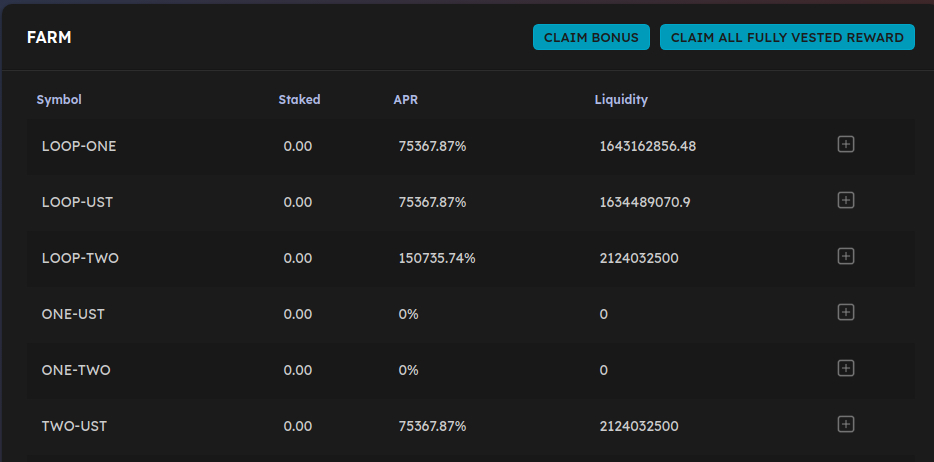
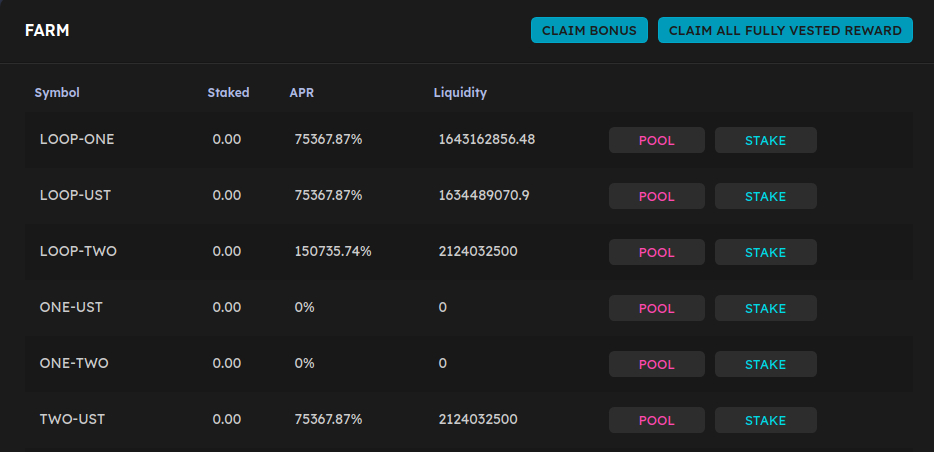
GitBook: [master] 15 pages and 5 assets modified

diff --git a/how-to/farming.md b/how-to/farming.md
@@ -18,7 +18,7 @@ It may sound intimidating, but it's not too complicated. Let's go through step b
 
 Before you proceed, you'll want to choose a Farm that's right for you. [Visit the Farms page](https://tequila-graph.loop.markets/farm#stake) and you’ll see a list of available Farms.
 
-![available farms on the LOOPSwap ](../.gitbook/assets/farms.jpg)
+![Available Farms](../.gitbook/assets/farms.jpg)
 
 When you find a Farm that you'd like to use, note down the trading pair, e.g. LOOP-UST in case you need it later.
 
@@ -26,11 +26,9 @@ When you find a Farm that you'd like to use, note down the trading pair, e.g. LO
 
 Now that you've found a Farm to stake in, you will need to add liquidity to get your LP Tokens.
 
-1. Click on [POOL](https://tequila-graph.loop.markets/pool#provide) on the left Menu list to swap the Token Pair to get **LP** tokens. 
+1. Click on [POOL](https://tequila-graph.loop.markets/pool#provide) to swap the Token Pair to get **LP** tokens. 
 
-   2.
-
-![click on Provide to get the LP Tokens](../.gitbook/assets/screenshot-from-2021-08-31-18-32-15.jpg)
+![Farm to provide liquidity](../.gitbook/assets/pool.jpg)
 
 ## Putting your LP Tokens into a farm <a id="putting-your-lp-tokens-into-a-farm"></a>
 
@@ -38,14 +36,13 @@ Now that you have your LP Tokens, you’re ready to start staking them in a Farm
 
 ### Putting your LP Tokens into the Farm <a id="putting-your-lp-tokens-into-the-farm"></a>
 
-1. Go back to the [Farms page](https://tequila-graph.loop.markets/farm#stake) and locate your Farm. Click on the \(**+\)** showing your pair. It will expand to show more details.
-2. Click on \(**+ Stake LP**\) and a new window will appear.
+1. Go back to the [Farms page](https://tequila-graph.loop.markets/farm#stake) and locate your Farm. Click on [Stake](https://tequila-graph.loop.markets/farm#stake) and a new window will appear.
 
                                             **Image Here**
 
-Type the amount of LP Tokens you would like to farm with into the field, or just click **Max** to use all of your LP Tokens.
+Type the amount of LP Tokens you would like to farm with into the field, to use your LP Tokens.
 
-1. When you have the amount entered, the **Confirm** button will light up. Click it. Your wallet will ask you to confirm your action.
+1. When you have the amount entered, the **STAKE** button will light up. Click it. Your wallet will ask you to confirm your action.
 
                                                 **Image Here**
 
@@ -55,7 +52,51 @@ Type the amount of LP Tokens you would like to farm with into the field, or just
 
 You may decide you would like to add more LP Tokens to a Farm at a later date, or to take some out of a Farm. You can do this very easily whenever you'd like.
 
+1. Return to the [Farms page](https://tequila-graph.loop.markets/farm#stake). At the top of the page you'll see a **Drop Down** button having list of all the farms
 
+                                            **IMAGE HERE**
+
+1. Find the Farm you have LP Tokens in, and click the **\[ + \]** to view details. You will see a \[ **- Unstake \]** and \[ **+ Stake \]** button on the left-hand side. Click **\[** **- Unstake \]** to remove LP Tokens, or **\[** **+ Stake \]** to add more LP Tokens.
+
+![](../.gitbook/assets/plusminus.jpg)
+
+                                  ****
+
+1. A window will open that looks like the one you used earlier to first stake your LP Tokens. Like last time, type the amount you would like to unstake/stake
+
+                                            **IMAGE HERE**
+
+1. Make sure your information is correct. When you are ready, click the **Confirm** button and confirm the action in your wallet.
+2. After a short wait, your new balance will show in the details section of your LP Token pair.
+
+## Collecting your farming rewards
+
+Farming will bring you **LOOP** rewards over time. You can collect these rewards and use them to get more LP Tokens, stake them in Farms or anything else you’d like.
+
+### Returning to your Farm to Harvest
+
+To collect your rewards, you’ll need to visit your chosen Farm and collect the **LOOP** waiting for you.
+
+1. Return to the Farms page [here](https://tequila-graph.loop.markets/farm#stake).
+2. From the Drop Down button on the Top Find the Farm you staked your LP Tokens in, and click the **\[ + \]** to view details. You should see an estimate of your rewards under “Claimable".
+
+                                                 **IMAGE HERE**
+
+1. Click the **Harvest** button and confirm the action in your wallet. After a short wait, the **LOOP** will be claimed to your wallet for you to use as you like.
+
+### How often should I harvest my rewards?
+
+How often you harvest your rewards is up to you, but it does help to remember that there is a small fee involved in harvesting.
+
+You can see this fee in your wallet when confirming after clicking **Harvest**.
+
+![](../.gitbook/assets/fee.jpg)
+
+This shows the fee for harvesting as it appears in the **TerraStation** wallet. Different wallets will show the information a little differently. Consider leaving your rewards to grow for a while so you pay fees less often.
+
+And that's all there is to it!
+
+Happy farming!
 
 
 
